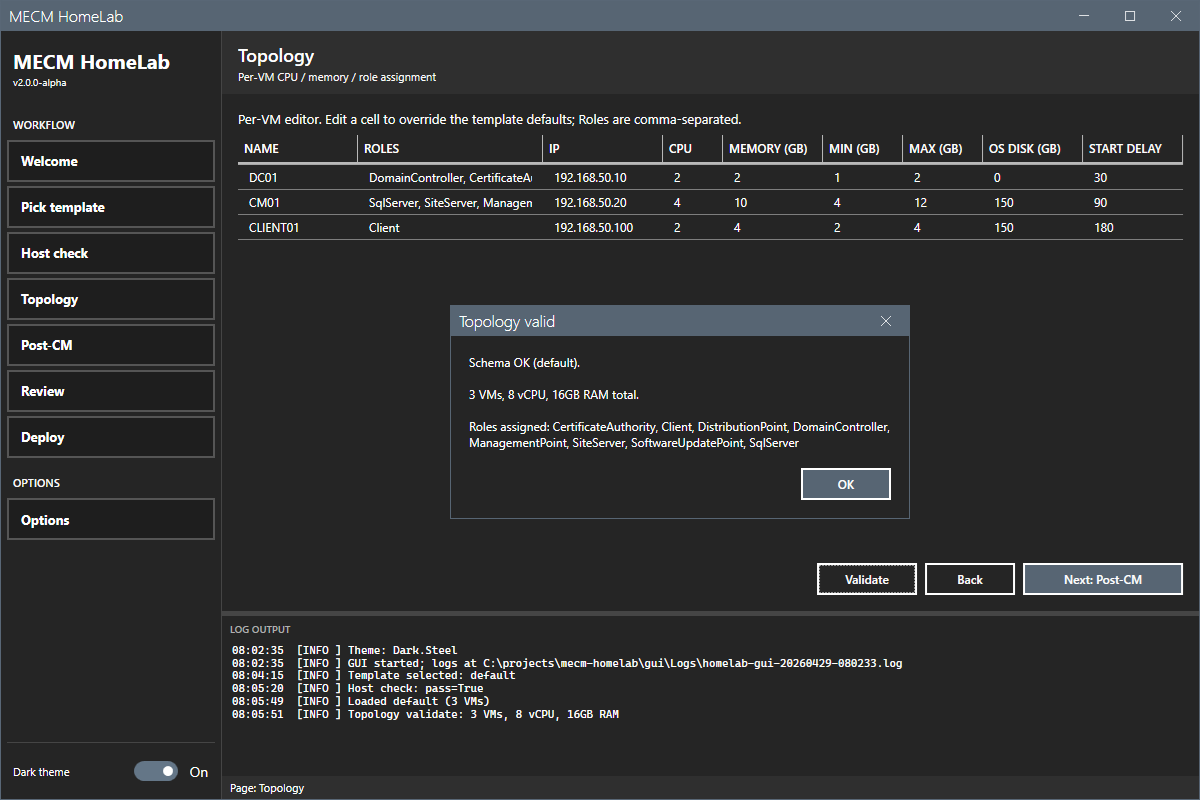
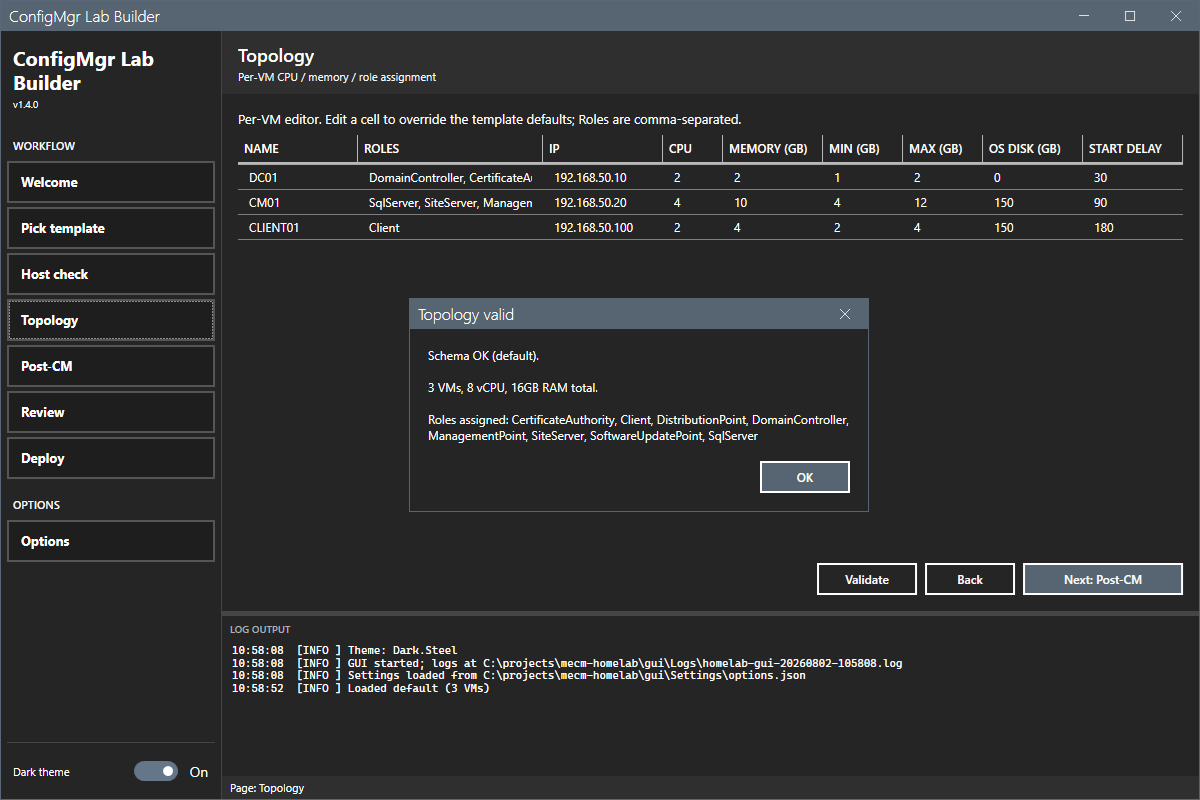
Replace all GUI screenshots with 1.4.0 captures; drop redundant main-dark
All four wizard-page shots were stale: they showed the old MECM HomeLab
branding, and gui-host-check was old enough to still show a 2.0.0-alpha
version string from before the repo renumbered to 1.0.0. Recaptured
against 1.4.0 with the wrapped sidebar title.

main-dark.png is deleted rather than recaptured -- it framed the same
Welcome page as gui-welcome.png. gui-welcome now serves as the README
hero, and the "1. Welcome" walkthrough step points at it instead of
repeating the image 90 lines later.

diff --git a/CHANGELOG.md b/CHANGELOG.md
@@ -36,6 +36,17 @@ public API is untouched.
   `lab-console-site-status.png` (all seven site systems reporting OK in
   the console) at the top of After deployment.
 
+### Changed (screenshots)
+
+- **All four GUI wizard screenshots recaptured against 1.4.0.** Every
+  one still showed the old MECM HomeLab branding, and
+  `gui-host-check.png` was old enough to show a `2.0.0-alpha` version
+  string from before the repo renumbered to 1.0.0.
+- **`main-dark.png` removed rather than recaptured.** It framed the
+  same Welcome page as `gui-welcome.png`. `gui-welcome.png` is now the
+  README hero, and the "1. Welcome" walkthrough step refers up to it
+  instead of repeating the identical image 90 lines later.
+
 ### Fixed
 
 - GUI version badges in `MainWindow.xaml` and the Options "About"

diff --git a/README.md b/README.md
@@ -16,7 +16,7 @@ activation:
 Larger topologies (split SQL, role-per-server, CAS hierarchies) are
 available via templates -- see [Templates](#templates).
 
-![ConfigMgr Lab Builder GUI](docs/screenshots/main-dark.png)
+![ConfigMgr Lab Builder GUI](docs/screenshots/gui-welcome.png)
 
 ## Hardware
 
@@ -107,10 +107,9 @@ animated and the log drawer streams live.
 
 ### 1. Welcome
 
-![Welcome page](docs/screenshots/gui-welcome.png)
-
-Cover page with the six-step workflow summary. No input; click
-**Pick template** in the sidebar (or Next) to begin.
+Pictured at the top of this README. Cover page with the six-step
+workflow summary. No input; click **Pick template** in the sidebar
+(or Next) to begin.
 
 ### 2. Pick template
 
